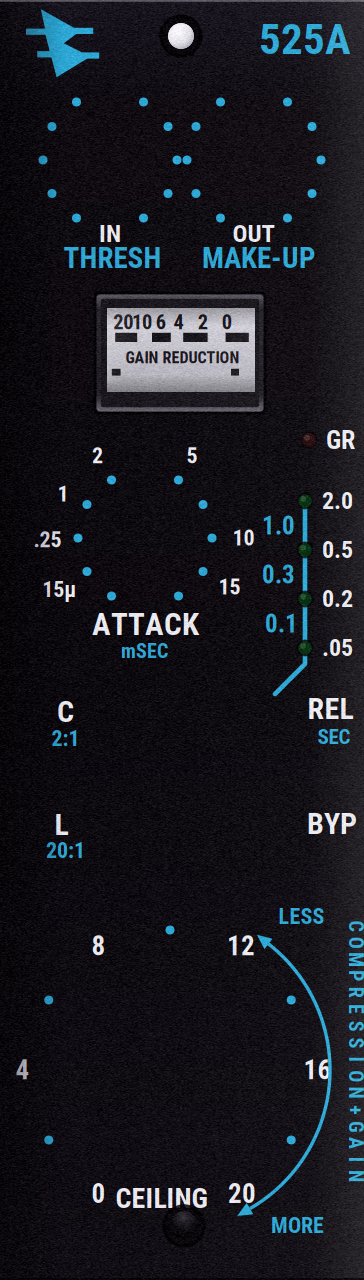
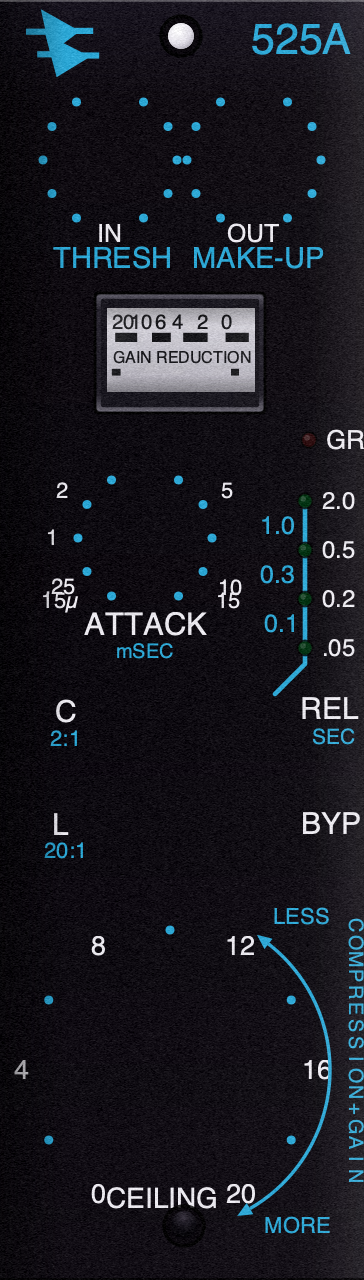
The attack dial matches the original: every dot is a detent, labels sit beside their dots
The original 525A's attack silkscreen: the EXTREME dots are 15µ (−150°) and 15 ms
(+150°), every one of the ten dots is a stop, and the printed values sit BESIDE their
dots (seven labels naming ten stops). The kit's drawing had placed the labels ON the
inner dots, which is what my earlier 7-stop mapping faithfully — and wrongly — followed.

- Ten detents now, at every dot angle; the unlabeled dots carry the geometric midpoints
  of their neighbours (2.7 / 3.7 ms between 2 and 5, 7 ms between 5 and 10). Plate and
  NDS module (redeployed) share the ladder.
- panel_background regenerated from the kit source (cairo toolchain in a venv) with the
  original label placement: 15µ/.25/1/2 down the left, 5/10/15 down the right, the
  extremes flanking the ATTACK caption clear of its glyphs. rebuild_panel.py renders
  just the backboard, so a silkscreen fix doesn't re-render 128-frame knob strips.

diff --git a/src/app/swift/Api525APlate.swift b/src/app/swift/Api525APlate.swift
@@ -69,11 +69,13 @@ private enum K {
         return meterMarks.last!.x
     }
 
-    /// ATTACK detents: the silkscreen dots sit at −120/−90/−60/−30/+30/+90/+120° on the
-    /// −150…+150° dial (panel.py SMALL_DOT_ANGLES + label placement), so the stops are NOT
-    /// evenly spaced in normalized terms — mapping them evenly made only the extremes line up.
-    static let attackStepsMs: [Float] = [0.1, 0.25, 1, 2, 5, 10, 15]   // 15µ rides the 0.1 ms floor
-    static let attackStopsNormalized: [Float] = [0.1, 0.2, 0.3, 0.4, 0.6, 0.8, 0.9]
+    /// ATTACK detents, per the ORIGINAL hardware: EVERY dot is a stop — ten of them, at
+    /// −150/−120/−90/−60/−30/+30/+60/+90/+120/+150° — with the extremes 15µ and 15 ms and the
+    /// labels silkscreened BESIDE their dots (the labels name seven of the ten). The unlabeled
+    /// dots carry the geometric midpoints of their neighbours (2.7 · 3.7 between 2 and 5, 7
+    /// between 5 and 10). 15µ rides the wire's 0.1 ms floor.
+    static let attackStepsMs: [Float] = [0.1, 0.25, 1, 2, 2.7, 3.7, 5, 7, 10, 15]
+    static let attackStopsNormalized: [Float] = [0, 0.1, 0.2, 0.3, 0.4, 0.6, 0.7, 0.8, 0.9, 1.0]
 }
 
 // MARK: asset cache

diff --git a/tools/node/na_api525a.cpp b/tools/node/na_api525a.cpp
@@ -8,7 +8,7 @@
 //
 // Params are the 525A's own controls, normalized 0..1 on the wire and denormalised here:
 //   0 IN (bypass inverse)   1 THRESH −20…+10 dB   2 MAKE-UP 0…20 dB
-//   3 ATTACK 7 detents (15µ…15 ms)   4 RELEASE 4-step ladder (.05/.2/.5/2.0 s)
+//   3 ATTACK 10 detents (15µ…15 ms, every silkscreen dot)   4 RELEASE ladder (.05/.2/.5/2.0 s)
 //   5 RATIO (C 2:1 / L 20:1)         6 CEILING 0…20 dB (threshold down + make-up up)
 //
 // ABI 2: meter() reports the compressor's gain reduction so the plate's needle keeps moving
@@ -41,7 +41,7 @@ constexpr uint32_t kParamCount = 7u;
 const char* const kParamNames[kParamCount] = {
     "In", "Thresh", "Make-Up", "Attack", "Release", "Ratio", "Ceiling",
 };
-constexpr float kAttackStepsMs[] = {0.1f, 0.25f, 1.0f, 2.0f, 5.0f, 10.0f, 15.0f};
+constexpr float kAttackStepsMs[] = {0.1f, 0.25f, 1.0f, 2.0f, 2.7f, 3.7f, 5.0f, 7.0f, 10.0f, 15.0f};
 constexpr float kReleaseStepsSec[] = {0.05f, 0.2f, 0.5f, 2.0f};
 
 NaRtParamInfo g_params[kParamCount];
@@ -84,8 +84,8 @@ void moduleSetParam(void* ptr, uint32_t index, float value) {
         case 1: p.compThresholdDb = -20.0f + v * 30.0f; break;
         case 2: p.compMakeupDb = v * 20.0f; break;
         case 3: {
-            const int step = static_cast<int>(v * 6.0f + 0.5f);
-            p.compAttackMs = kAttackStepsMs[std::max(0, std::min(6, step))];
+            const int step = static_cast<int>(v * 9.0f + 0.5f);
+            p.compAttackMs = kAttackStepsMs[std::max(0, std::min(9, step))];
             break;
         }
         case 4: {
